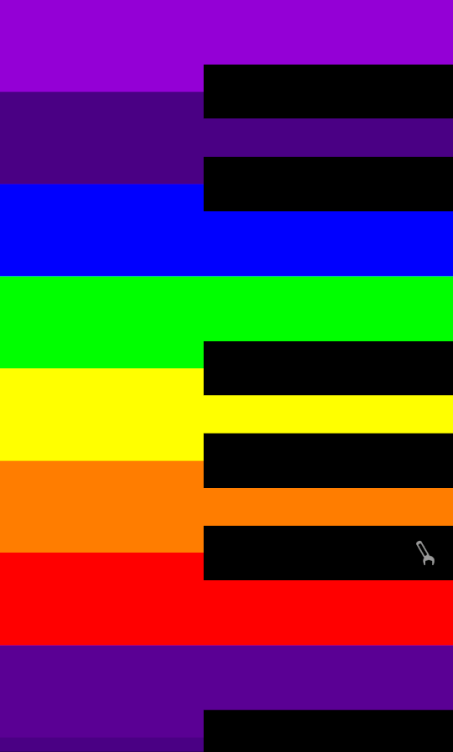
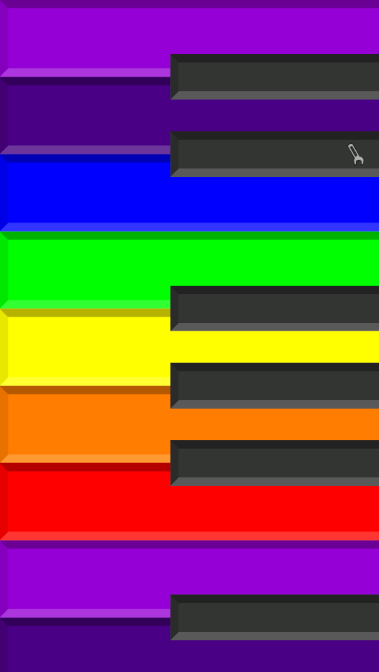
Add embos effect to keys.

diff --git a/app/src/main/java/com/nicobrailo/pianoli/PianoCanvas.java b/app/src/main/java/com/nicobrailo/pianoli/PianoCanvas.java
@@ -4,6 +4,7 @@ import android.content.Context;
 import android.graphics.Canvas;
 import android.graphics.Color;
 import android.graphics.Paint;
+import android.graphics.Path;
 import android.graphics.Point;
 import android.graphics.Rect;
 import android.graphics.drawable.Drawable;
@@ -15,11 +16,14 @@ import android.view.SurfaceHolder;
 import android.view.SurfaceView;
 
 import androidx.appcompat.app.AppCompatActivity;
+import androidx.core.graphics.ColorUtils;
 
 import java.util.HashMap;
 import java.util.Map;
 
 class PianoCanvas extends SurfaceView implements SurfaceHolder.Callback {
+
+    private static final int BORDER_WIDTH = 24;
 
     final Piano piano;
     final AppConfigTrigger appConfigHandler;
@@ -95,7 +99,7 @@ class PianoCanvas extends SurfaceView implements SurfaceHolder.Callback {
         for (int i = 1; i < piano.get_keys_count(); i += 2) {
             // Draw small key
             Paint flat_key_paint = new Paint();
-            flat_key_paint.setColor(piano.is_key_pressed(i) ? Color.GRAY : Color.BLACK);
+            flat_key_paint.setColor(piano.is_key_pressed(i) ? Color.GRAY : 0xFF333333);
             if (piano.get_area_for_flat_key(i) != null) {
                 draw_key(canvas, piano.get_area_for_flat_key(i), flat_key_paint);
             }
@@ -105,12 +109,75 @@ class PianoCanvas extends SurfaceView implements SurfaceHolder.Callback {
     }
 
     void draw_key(final Canvas canvas, final Piano.Key rect, final Paint p) {
+        // Draw the main (solid) background of the key.
+
         Rect r = new Rect();
         r.left = rect.x_i;
         r.right = rect.x_f;
         r.top = rect.y_i;
         r.bottom = rect.y_f;
         canvas.drawRect(r, p);
+
+        // Now draw the bevels around the edge of each key.
+        // Just the left, bottom, and right. The top of the key doesn't have a bevel.
+
+        // Adjust this colour brighter or darker for the bevel.
+        int base = p.getColor();
+
+        // Left bevel
+        // +---+
+        // |   |
+        // |   |
+        // |   |
+        // |   |
+        // |   *
+        // | *
+        // *
+
+        Path left = new Path();
+        left.moveTo(r.left, r.top);
+        left.lineTo(r.left, r.bottom);
+        left.lineTo(r.left + BORDER_WIDTH, r.bottom - BORDER_WIDTH);
+        left.lineTo(r.left + BORDER_WIDTH, r.top);
+        left.lineTo(r.left, r.top);
+
+        p.setColor(ColorUtils.blendARGB(base, Color.BLACK, 0.3f));
+        canvas.drawPath(left, p);
+
+        // Right bevel
+        // +---+
+        // |   |
+        // |   |
+        // |   |
+        // |   |
+        // *   |
+        //   * |
+        //     *
+
+        Path right = new Path();
+        right.moveTo(r.right, r.top);
+        right.lineTo(r.right, r.bottom);
+        right.lineTo(r.right - BORDER_WIDTH, r.bottom - BORDER_WIDTH);
+        right.lineTo(r.right - BORDER_WIDTH, r.top);
+        right.lineTo(r.right, r.top);
+
+        p.setColor(ColorUtils.blendARGB(base, Color.WHITE, 0.2f));
+        canvas.drawPath(right, p);
+
+        //         Bottom bevel
+        //          *---------*
+        //       *                *
+        //    *----------------------+
+
+        Path bottom = new Path();
+        bottom.moveTo(r.left, r.bottom);
+        bottom.lineTo(r.right, r.bottom);
+        bottom.lineTo(r.right - BORDER_WIDTH, r.bottom - BORDER_WIDTH);
+        bottom.lineTo(r.left + BORDER_WIDTH, r.bottom - BORDER_WIDTH);
+        bottom.lineTo(r.left, r.bottom);
+
+        p.setColor(ColorUtils.blendARGB(base, Color.BLACK, 0.1f));
+        canvas.drawPath(bottom, p);
     }
 
     /**
